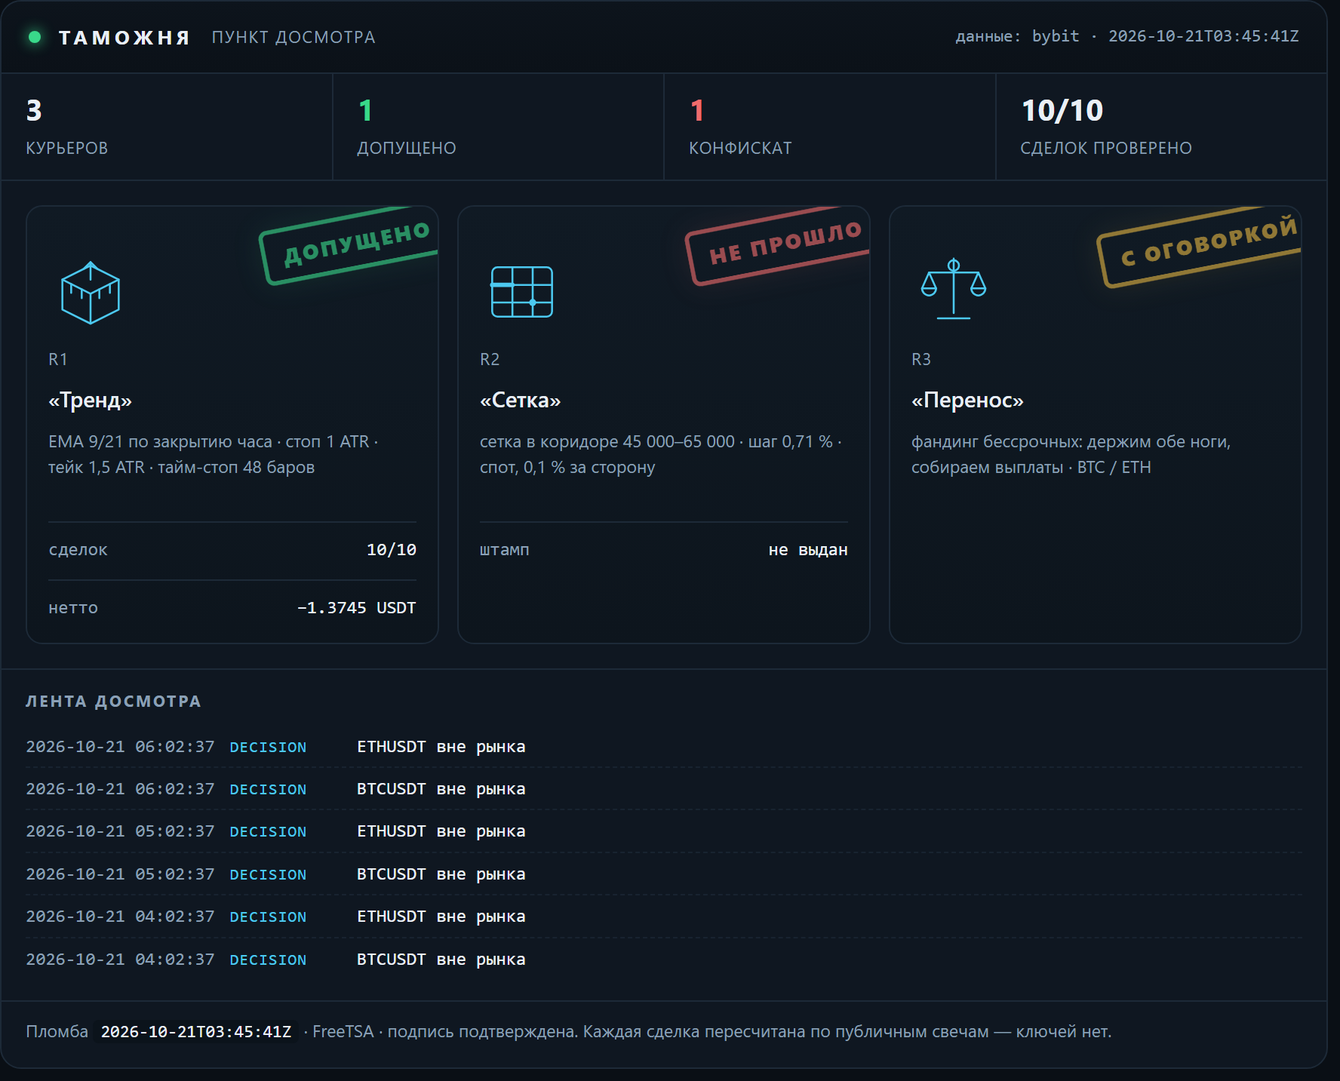
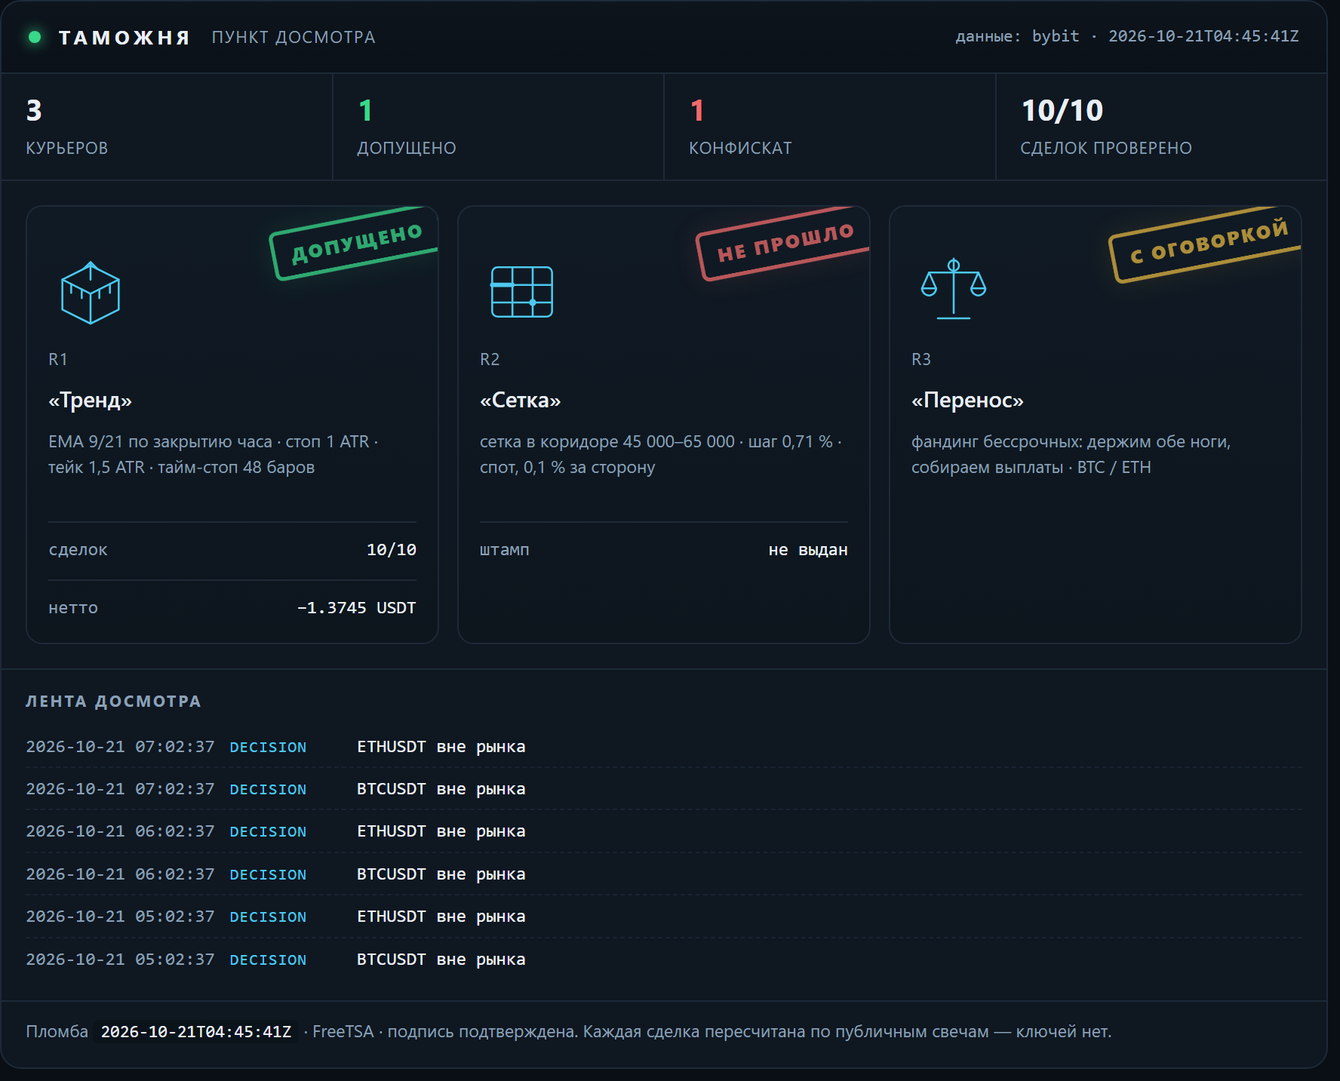
lab: таможня — свежие числа досмотра

Changed region(s): [[0.8052, 0.1842, 0.96, 0.2763], [0.4955, 0.1842, 0.6503, 0.2763], [0.1858, 0.1842, 0.3407, 0.2763]]

diff --git a/docs/customs.html b/docs/customs.html
@@ -16,7 +16,7 @@
   <h1><a href="index.html">Gramwright Lab</a></h1>
   <p>Журнал проверки торговых гипотез: что проверяли, что вышло по факту, сколько съели издержки. Числа берутся из журнала стенда. Не инвестиционная рекомендация.</p>
 </header>
-<h1>Таможня</h1><p class="intro">Пункт досмотра заявленных результатов. Стратегии приезжают с грузом обещаний, и каждая проходит проверку по публичным данным биржи: цены существуют, комиссии по тарифу, нетто сходится. Что прошло — получает штамп. Что не прошло — в конфискат, с причиной. Штамп означает «записи подлинные», а не «стратегия прибыльна».</p><p><img src="img/customs.png" alt="Терминал досмотра: три курьера, штампы, лента событий" style="width:100%;height:auto;border:1px solid var(--line);border-radius:10px"></p><p class="c-note">Сверху — тот же терминал, что собирается из журналов: счётчики, эмблемы курьеров, штампы и лента последних событий. Ниже — то же самое текстом, чтобы читалось с телефона и индексировалось поиском.</p><article><h2>R1 «Тренд» <span class="verdict">— <span class="c-ok">допущено</span></span></h2><p><strong>Правило:</strong> EMA 9/21 по закрытию часа · стоп 1 ATR · тейк 1,5 ATR · тайм-стоп 48 баров</p><p><strong>Декларация:</strong> Заявлено до прогона: держать 30 сделок, лимит нотионала 10 % от счёта, стоп дня −1 %. Прибыль не заявлялась — это важно: курьер не обещал доход.</p><p><strong>Проверено по публичным свечам, без ключей:</strong> 10 из 10 сделок. Сумма нетто −1.3745 USDT.</p><ul class="c-chk"><li class="y">BTCUSDT: нетто −0.8746 USDT · комиссии 0.0901 · проверено · с поправкой</li><li class="y">BTCUSDT: нетто −0.5441 USDT · комиссии 0.0896 · проверено</li><li class="y">ETHUSDT: нетто −0.2253 USDT · комиссии 0.0266 · проверено</li><li class="y">ETHUSDT: нетто −0.1513 USDT · комиссии 0.0265 · проверено</li><li class="y">ETHUSDT: нетто +0.1984 USDT · комиссии 0.0262 · проверено</li><li class="y">ETHUSDT: нетто +0.1617 USDT · комиссии 0.0260 · проверено</li><li class="y">ETHUSDT: нетто +0.2645 USDT · комиссии 0.0263 · проверено</li><li class="y">BTCUSDT: нетто +0.6246 USDT · комиссии 0.0897 · проверено</li><li class="y">BTCUSDT: нетто −0.5881 USDT · комиссии 0.0910 · проверено</li><li class="y">ETHUSDT: нетто −0.2403 USDT · комиссии 0.0270 · проверено</li></ul><p class="tags">журнал sha256 8dc6992ceef0f35e… · проверяльщик verify-1</p><p class="c-note">Штамп означает: записи подлинные, а не что стратегия прибыльна. Курьер в минусе, и минус тоже стоит на штампе — иначе это была бы не проверка, а реклама.</p><p class="tags">источник: verify-report.json</p></article><article><h2>R2 «Сетка» <span class="verdict">— <span class="c-bad">не прошло</span></span></h2><p><strong>Правило:</strong> сетка в коридоре 45 000–65 000 · шаг 0,71 % · спот, 0,1 % за сторону</p><p><strong>Декларация:</strong> Заявлено: «44 % урожая уходит бирже в виде комиссий». Кроме того — перевес над простым владением монетой.</p><p><strong>Что сошлось:</strong></p><ul class="c-chk"><li class="y">сами числа пересчитаны и воспроизводятся: коридор 45–65k был активен 23 % всей истории и 28 % последних двух лет</li></ul><p><strong>Что не сошлось:</strong></p><ul class="c-chk"><li class="n">44 % не подтвердилось: при шаге 0,71 % и тарифе 0,1 % комиссия съедает 28,3 % шага. Чтобы получить 44 %, нужен шаг 0,45 % — это около 80 уровней, а не 50</li><li class="n">от урожая доля комиссий 85,5 % за всю историю и 49,6 % за последние два года — тоже не 44 %</li><li class="n">перевес над владением посчитан на тарифе 0,055 %: при нём +1,32 п. п., на розничном 0,1 % — −0,72 п. п. То есть перевес исчезает</li><li class="n">семилетний тест стартовал в сентябре 2019 при биткоине около 10 000 — ниже коридора. Он говорит, что фиксированный коридор не подходит для периода, а не что сетка отстаёт</li></ul><p class="tags">источник: lab_grid.py, пересчёт 17.10.2026</p></article><article><h2>R3 «Перенос» <span class="verdict">— <span class="c-warn">с оговоркой</span></span></h2><p><strong>Правило:</strong> фандинг бессрочных: держим обе ноги, собираем выплаты · BTC / ETH</p><p><strong>Декларация:</strong> Заявлено: около 11,9 % в год от выплат фандинга при просадке выплатной кривой меньше 2 %.</p><p><strong>Что сошлось:</strong></p><ul class="c-chk"><li class="y">выплаты взяты из публичной истории биржи, ключей не нужно: BTC — 7 190 выплат с 25.03.2020, ETH — 6 561 с 21.10.2020</li><li class="y">сумма сходится: +83,4 % и +83,2 % за 6,6 и 6,0 года — те самые ~11,9 % в год</li><li class="y">худшая просадка выплатной кривой: −1,65 % и −1,97 %</li></ul><p><strong>Что не сошлось:</strong></p><ul class="c-chk"><li class="n">оговорка 1: премию сжали — 2021 год дал +38,3 %, 2026 — +1,96 %. Прошлое не повторяется</li><li class="n">оговорка 2: вход-выход стоит около 0,31 %, капитала нужно 1,2 от нотионала, текущий базис −0,082 % против входа</li><li class="n">оговорка 3: риск площадки. История FTX в этой же таблице выглядела так же прилично</li></ul><p class="tags">источник: публичная история фандинга Bybit, замер 17.10.2026</p></article><div class="c-conf"><h3>Конфискат</h3><p><strong>«Сетка»: заявленные 44 % комиссий не подтвердились.</strong> Досмотр показал 28,3 % от шага и 85,5 % от урожая — цифра хуже заявленной по форме, но лучше по смыслу: сетку убивает не размер шага, а то, что урожай почти весь уходит в комиссии. Это и вышло в выпуск — с поправкой, а не с красивой цифрой.</p></div><p class="c-note">Пломба: <code>2026-10-21T03:45:41Z</code> · нотариус FreeTSA · Oct 21 03:45:41 2026 GMT · подпись подтверждена. Манифест скрепляет отчёт проверки, журнал сделок и декларации курьеров: подменишь любую цифру — пломба перестанет сходиться.</p><p class="c-note">Досмотр идёт по публичным минутным свечам и публичной истории фандинга — ключей у проверяющего нет, и он может повторить проверку сам.</p><p class="c-note">Контент образовательный, не является инвестиционной рекомендацией. Торговля связана с риском потери капитала.</p>
+<h1>Таможня</h1><p class="intro">Пункт досмотра заявленных результатов. Стратегии приезжают с грузом обещаний, и каждая проходит проверку по публичным данным биржи: цены существуют, комиссии по тарифу, нетто сходится. Что прошло — получает штамп. Что не прошло — в конфискат, с причиной. Штамп означает «записи подлинные», а не «стратегия прибыльна».</p><p><img src="img/customs.png" alt="Терминал досмотра: три курьера, штампы, лента событий" style="width:100%;height:auto;border:1px solid var(--line);border-radius:10px"></p><p class="c-note">Сверху — тот же терминал, что собирается из журналов: счётчики, эмблемы курьеров, штампы и лента последних событий. Ниже — то же самое текстом, чтобы читалось с телефона и индексировалось поиском.</p><article><h2>R1 «Тренд» <span class="verdict">— <span class="c-ok">допущено</span></span></h2><p><strong>Правило:</strong> EMA 9/21 по закрытию часа · стоп 1 ATR · тейк 1,5 ATR · тайм-стоп 48 баров</p><p><strong>Декларация:</strong> Заявлено до прогона: держать 30 сделок, лимит нотионала 10 % от счёта, стоп дня −1 %. Прибыль не заявлялась — это важно: курьер не обещал доход.</p><p><strong>Проверено по публичным свечам, без ключей:</strong> 10 из 10 сделок. Сумма нетто −1.3745 USDT.</p><ul class="c-chk"><li class="y">BTCUSDT: нетто −0.8746 USDT · комиссии 0.0901 · проверено · с поправкой</li><li class="y">BTCUSDT: нетто −0.5441 USDT · комиссии 0.0896 · проверено</li><li class="y">ETHUSDT: нетто −0.2253 USDT · комиссии 0.0266 · проверено</li><li class="y">ETHUSDT: нетто −0.1513 USDT · комиссии 0.0265 · проверено</li><li class="y">ETHUSDT: нетто +0.1984 USDT · комиссии 0.0262 · проверено</li><li class="y">ETHUSDT: нетто +0.1617 USDT · комиссии 0.0260 · проверено</li><li class="y">ETHUSDT: нетто +0.2645 USDT · комиссии 0.0263 · проверено</li><li class="y">BTCUSDT: нетто +0.6246 USDT · комиссии 0.0897 · проверено</li><li class="y">BTCUSDT: нетто −0.5881 USDT · комиссии 0.0910 · проверено</li><li class="y">ETHUSDT: нетто −0.2403 USDT · комиссии 0.0270 · проверено</li></ul><p class="tags">журнал sha256 ff341b621143e885… · проверяльщик verify-1</p><p class="c-note">Штамп означает: записи подлинные, а не что стратегия прибыльна. Курьер в минусе, и минус тоже стоит на штампе — иначе это была бы не проверка, а реклама.</p><p class="tags">источник: verify-report.json</p></article><article><h2>R2 «Сетка» <span class="verdict">— <span class="c-bad">не прошло</span></span></h2><p><strong>Правило:</strong> сетка в коридоре 45 000–65 000 · шаг 0,71 % · спот, 0,1 % за сторону</p><p><strong>Декларация:</strong> Заявлено: «44 % урожая уходит бирже в виде комиссий». Кроме того — перевес над простым владением монетой.</p><p><strong>Что сошлось:</strong></p><ul class="c-chk"><li class="y">сами числа пересчитаны и воспроизводятся: коридор 45–65k был активен 23 % всей истории и 28 % последних двух лет</li></ul><p><strong>Что не сошлось:</strong></p><ul class="c-chk"><li class="n">44 % не подтвердилось: при шаге 0,71 % и тарифе 0,1 % комиссия съедает 28,3 % шага. Чтобы получить 44 %, нужен шаг 0,45 % — это около 80 уровней, а не 50</li><li class="n">от урожая доля комиссий 85,5 % за всю историю и 49,6 % за последние два года — тоже не 44 %</li><li class="n">перевес над владением посчитан на тарифе 0,055 %: при нём +1,32 п. п., на розничном 0,1 % — −0,72 п. п. То есть перевес исчезает</li><li class="n">семилетний тест стартовал в сентябре 2019 при биткоине около 10 000 — ниже коридора. Он говорит, что фиксированный коридор не подходит для периода, а не что сетка отстаёт</li></ul><p class="tags">источник: lab_grid.py, пересчёт 17.10.2026</p></article><article><h2>R3 «Перенос» <span class="verdict">— <span class="c-warn">с оговоркой</span></span></h2><p><strong>Правило:</strong> фандинг бессрочных: держим обе ноги, собираем выплаты · BTC / ETH</p><p><strong>Декларация:</strong> Заявлено: около 11,9 % в год от выплат фандинга при просадке выплатной кривой меньше 2 %.</p><p><strong>Что сошлось:</strong></p><ul class="c-chk"><li class="y">выплаты взяты из публичной истории биржи, ключей не нужно: BTC — 7 190 выплат с 25.03.2020, ETH — 6 561 с 21.10.2020</li><li class="y">сумма сходится: +83,4 % и +83,2 % за 6,6 и 6,0 года — те самые ~11,9 % в год</li><li class="y">худшая просадка выплатной кривой: −1,65 % и −1,97 %</li></ul><p><strong>Что не сошлось:</strong></p><ul class="c-chk"><li class="n">оговорка 1: премию сжали — 2021 год дал +38,3 %, 2026 — +1,96 %. Прошлое не повторяется</li><li class="n">оговорка 2: вход-выход стоит около 0,31 %, капитала нужно 1,2 от нотионала, текущий базис −0,082 % против входа</li><li class="n">оговорка 3: риск площадки. История FTX в этой же таблице выглядела так же прилично</li></ul><p class="tags">источник: публичная история фандинга Bybit, замер 17.10.2026</p></article><div class="c-conf"><h3>Конфискат</h3><p><strong>«Сетка»: заявленные 44 % комиссий не подтвердились.</strong> Досмотр показал 28,3 % от шага и 85,5 % от урожая — цифра хуже заявленной по форме, но лучше по смыслу: сетку убивает не размер шага, а то, что урожай почти весь уходит в комиссии. Это и вышло в выпуск — с поправкой, а не с красивой цифрой.</p></div><p class="c-note">Пломба: <code>2026-10-21T04:45:41Z</code> · нотариус FreeTSA · Oct 21 04:45:41 2026 GMT · подпись подтверждена. Манифест скрепляет отчёт проверки, журнал сделок и декларации курьеров: подменишь любую цифру — пломба перестанет сходиться.</p><p class="c-note">Досмотр идёт по публичным минутным свечам и публичной истории фандинга — ключей у проверяющего нет, и он может повторить проверку сам.</p><p class="c-note">Контент образовательный, не является инвестиционной рекомендацией. Торговля связана с риском потери капитала.</p>
 <footer class="site">
   Код стенда и аудитора: <a href="https://github.com/XSlaidx/truth-engine">XSlaidx/truth-engine</a>
   &middot; <a href="graveyard.html">кладбище правил</a>
